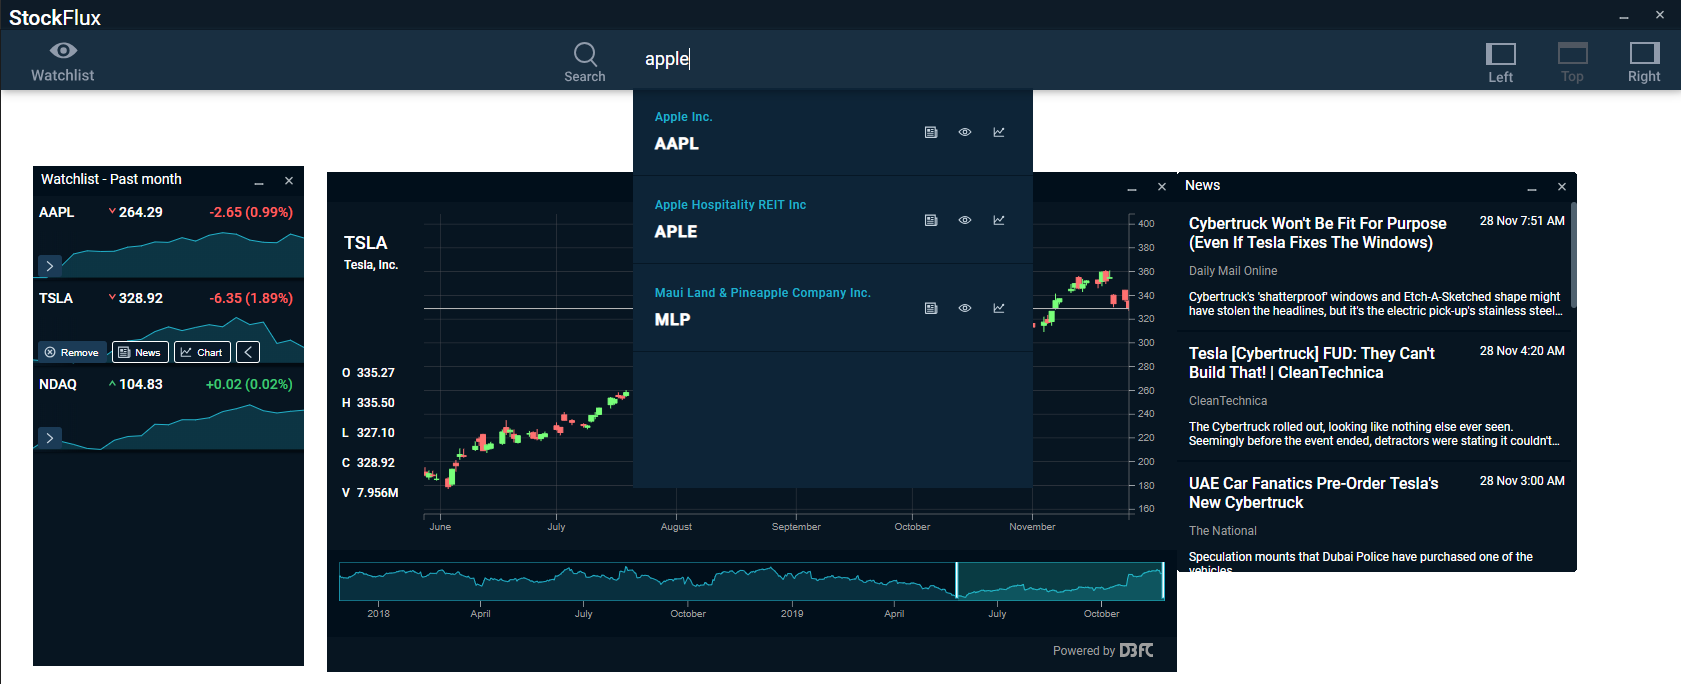
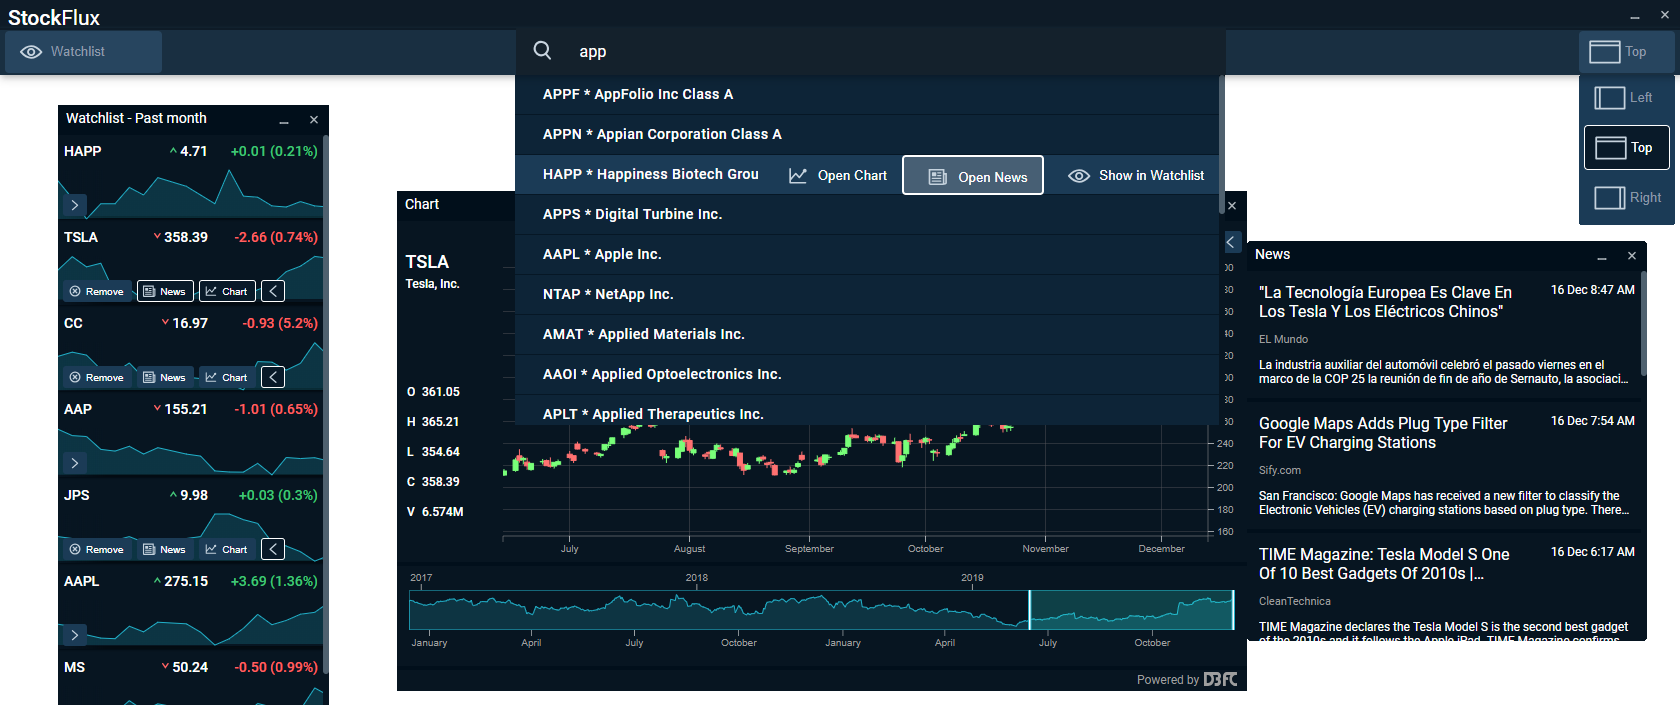
Final modifications to meet spec

diff --git a/packages/stockflux-launcher/src/App.css b/packages/stockflux-launcher/src/App.css
@@ -13,7 +13,6 @@ body {
 }
 .icon {
   color: var(--icon-inactive);
-  /* margin-bottom: 8px; */
 }
 
 .icon:hover:enabled {
@@ -37,13 +36,13 @@ body {
 }
 
 .horizontal {
-  margin-left: 10px;
-  margin-right: 10px;
-  margin-top: 10px;
+  margin-left: 5px;
+  margin-right: 5px;
 }
 
 .horizontal button {
-  height: 40px;
+  margin-top:5px;
+  margin-bottom:5px;
   width: 157px;
   background-color: #1b3b56;
   border-radius: 4px;
@@ -55,7 +54,6 @@ body {
 .vertical {
   padding-left: 10px;
   padding-right: 10px;
-  /* padding-top:13px; */
   align-self: center;
 }
 
@@ -84,7 +82,6 @@ body {
   flex-direction: column;
   justify-content: left;
   display: flex;
-  /* flex-grow: 3; */
   height: calc(100vh - var(--titlebar-height));
 }
 
@@ -94,7 +91,7 @@ body {
   justify-content: space-between;
   align-items: center;
   flex-wrap: nowrap;
-  height: 60px;
+  height: 47px;
   flex-wrap: nowrap;
 }
 

diff --git a/packages/stockflux-launcher/src/dock-selector/Positioner.js b/packages/stockflux-launcher/src/dock-selector/Positioner.js
@@ -7,7 +7,7 @@ export default (searchButtonRef, dockedTo, windowBounds, height, width) => {
   switch (dockedTo) {
     case ScreenEdge.TOP:
       return {
-        defaultTop: parseInt(searchButtonRect.bottom),
+        defaultTop: parseInt(windowBounds.bottom),
         defaultLeft: windowBounds.left + parseInt(searchButtonRect.left)
       };
     case ScreenEdge.LEFT:

diff --git a/packages/stockflux-launcher/src/free-text-search/FreeTextSearch.css b/packages/stockflux-launcher/src/free-text-search/FreeTextSearch.css
@@ -18,7 +18,7 @@
   color: var(--text-color);
   border: none;
   border-radius: 4px;
-  font-size: 18px;
+  font-size: 16px;
   height: var(--search-input-height);
   width: var(--search-input-width);  
   margin: 0 12px;
@@ -47,7 +47,6 @@
 
 .searchSVG {
   color: var(--icon-inactive);
-  margin-top: var(--margin-large) !important;
   width: 40px;
 }
 

diff --git a/packages/stockflux-launcher/src/search-results/helpers/Positioner.js b/packages/stockflux-launcher/src/search-results/helpers/Positioner.js
@@ -1,6 +1,6 @@
 import { ScreenEdge } from 'openfin-react-hooks';
 
-const DEFAULT_LAUNCHER_SIZE = 90;
+const DEFAULT_LAUNCHER_SIZE = 75;
 const DEFAULT_SEARCH_RESULTS_SIZE = 350;
 
 export default (searchButtonRef, inputRef, dockedTo, windowBounds) => {

diff --git a/packages/stockflux-launcher/src/App.js b/packages/stockflux-launcher/src/App.js
@@ -27,7 +27,7 @@ export default () => {
     },
     {
       undockPosition: { left: undockPosition.left, top: undockPosition.top },
-      undockSize: { width: 993, height: 90 }
+      undockSize: { width: 993, height: 75 }
     }
   );
 

diff --git a/README.md b/README.md
@@ -54,10 +54,6 @@ A collection of common services and util methods that are shared across the suit
 
 A collection of common components shared across the core applications.
 
-#### StockFlux Bitflux
-
-Bitflux is our charting library, this is what powers the Chart application.
-
 ### Key Tech used
 
 - [React](https://reactjs.org/)
@@ -84,6 +80,11 @@ npm run bootstrap
 npm run build
 ```
 
+To use the local developer proxy you will also need to build the proxy component using :
+```bash
+npm run proxy:build
+```
+
 In isolation each app can be ran individually with the following commands:
 
 ```bash
@@ -91,17 +92,17 @@ npm run start
 npm run launch
 ```
 
+For local development and to run the suite of apps from what is on the local machine a proxy override is needed. This is available on the following command:
+
+```bash
+npm run proxy:start
+```
+
 To run as a suite of apps run the following commands:
 
 ```bash
 npm run all:start
 npm run launcher:launch
-```
-
-For local development and to run the suite of apps from what is on the local machine a proxy override is needed. To run this change into the developer-proxy directory and run:
-
-```bash
-npm run proxy
 ```
 
 The applications run on the following ports:
@@ -113,6 +114,7 @@ The applications run on the following ports:
 | Launcher    | 8053 |
 | Container   | 8055 |
 | News        | 8056 |
+| Proxy       | 3000 |
 
 If these port selections conflict with another service you may be running they can be changed in the `package.json` file of each application.
 
